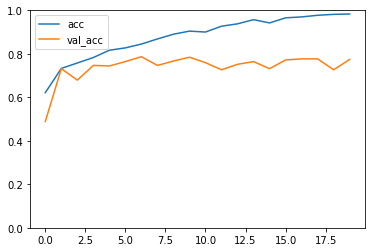
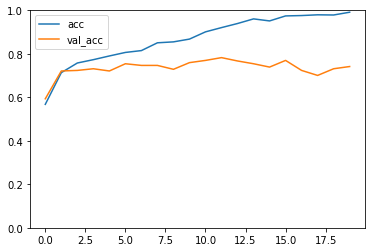
update

Changed region(s): [[0.1173, 0.1111, 0.9387, 0.5], [0.5867, 0.0278, 0.9387, 0.1111]]

diff --git a/doc2/032_da.md b/doc2/032_da.md
@@ -247,14 +247,14 @@ train_datagen = ImageDataGenerator(rescale=1.0/255,
                                    horizontal_flip=True,
                                    vertical_flip=True)
 
-train_generator = train_datagen.flow_from_directory('data/train',
+train_generator = train_datagen.flow_from_directory('data60x90/train',
                                                     target_size=(60, 90),
                                                     batch_size=32,
                                                     class_mode='binary')
 
 test_datagen = ImageDataGenerator(rescale=1.0/255)
 
-test_generator = test_datagen.flow_from_directory('data/test',
+test_generator = test_datagen.flow_from_directory('data60x90/test',
                                                         target_size=(60, 90),
                                                         batch_size=32,
                                                         class_mode='binary')
@@ -271,7 +271,7 @@ history = model.fit_generator(train_generator,
 flow_from_directoryメソッドの使い方を確認しておきましょう。
 
 ```python
-train_generator = train_datagen.flow_from_directory('/input/data/train',
+train_generator = train_datagen.flow_from_directory('data60x90/train',
                                                     target_size=(60, 90),
                                                     batch_size=32,
                                                     class_mode='binary')
@@ -279,7 +279,7 @@ train_generator = train_datagen.flow_from_directory('/input/data/train',
 
 flow_from_directoryメソッドの第1引数には訓練データのパスを指定します。このときファイルシステム上において、次のような構成で訓練データが準備されている必要があります。
 
-+ data/train
++ data60x90/train
     + CLASS_A
       + 001.jpg
       + 002.jpg
@@ -312,7 +312,7 @@ flow_from_directoryメソッドの第1引数には訓練データのパスを指
 ```python
 test_datagen = ImageDataGenerator(rescale=1.0/255)
 
-test_generator = test_datagen.flow_from_directory('/input/data/test',
+test_generator = test_datagen.flow_from_directory('data60x90/test',
                                                         target_size=(60, 90),
                                                         batch_size=32,
                                                         class_mode='binary')

diff --git a/doc2/043_models.md b/doc2/043_models.md
@@ -70,8 +70,8 @@ VGG16を特徴抽出器として利用すると、入力データは(224, 224, 3
 
 + 対象画像はA or Bの2種類（2値分類）とする
 + 画像サイズは縦：240px 横：360pxとする
-+ data240x360/data/trainフォルダには864件の訓練データ
-+ data240x360/data/testフォルダには700件のテストデータ
++ data240x360/trainフォルダには864件の訓練データ
++ data240x360/testフォルダには700件のテストデータ
 
 まずはVGG16を使って入力データの特徴を抽出します。
 
@@ -83,7 +83,7 @@ from keras.applications.vgg16 import VGG16
 model = VGG16(include_top=False, weights='imagenet')
 
 train_datagen = ImageDataGenerator(rescale=1.0 / 255)
-train_generator = train_datagen.flow_from_directory('data240x360/data/train',
+train_generator = train_datagen.flow_from_directory('data240x360/train',
                                                       target_size=(240, 360),
                                                       batch_size=32,
                                                       class_mode=None,
@@ -94,7 +94,7 @@ print(bottleneck_features_train.shape)
 np.save(open('bottleneck_features_train.npy', 'wb'), bottleneck_features_train)
 
 test_datagen = ImageDataGenerator(rescale=1. / 255)
-test_generator = test_datagen.flow_from_directory('data240x360/data/test',
+test_generator = test_datagen.flow_from_directory('data240x360/test',
                                                     target_size=(240, 360),
                                                     batch_size=32,
                                                     class_mode=None,
@@ -145,7 +145,7 @@ model = VGG16(include_top=False, weights='imagenet')
 
 ```python
 train_datagen = ImageDataGenerator(rescale=1. / 255)
-train_generator = train_datagen.flow_from_directory('data240x360/data/train',
+train_generator = train_datagen.flow_from_directory('data240x360/train',
                                                       target_size=(240, 360),
                                                       batch_size=32,
                                                       class_mode=None,

diff --git a/doc2/022_cnn.md b/doc2/022_cnn.md
@@ -13,6 +13,8 @@
 
 ここではインターネット上の共有画像データセットを活用して、機械学習に取り組む方法を取り上げます。次のプログラムは大規模画像データベースImage Netから画像をダウンロードするサンプルプログラムです。
 
+<div style="page-break-before:always"></div>
+
 ```python
 import sys
 import os
@@ -40,7 +42,7 @@ classes = {"apple":"n07739125", "banana":"n07753592"}
 # classes = {"cherry":"n07757132"}
 
 offset = 0
-max = 1 # 2000
+max = 10 # 2000
 for dir, id in classes.items():
     print(id)
     os.makedirs(dir, exist_ok=True)
@@ -213,12 +215,14 @@ plt.show()
 
 ```
 ...省略
+Epoch 17/20
+1173/1173 3s - loss: 0.0572 - acc: 0.9804 - val_loss: 0.8526 - val_acc: 0.7570
 Epoch 18/20
-1194/1194 3s - loss: 0.0774 - acc: 0.9774 - val_loss: 0.8825 - val_acc: 0.7769
+1173/1173 3s - loss: 0.0524 - acc: 0.9804 - val_loss: 1.0598 - val_acc: 0.7724
 Epoch 19/20
-1194/1194 3s - loss: 0.0657 - acc: 0.9816 - val_loss: 0.8557 - val_acc: 0.7268
+1173/1173 3s - loss: 0.0674 - acc: 0.9795 - val_loss: 0.8944 - val_acc: 0.7570
 Epoch 20/20
-1194/1194 3s - loss: 0.0573 - acc: 0.9832 - val_loss: 0.9858 - val_acc: 0.7744
+1173/1173 3s - loss: 0.0420 - acc: 0.9864 - val_loss: 0.8620 - val_acc: 0.7545
 ```
 
 訓練データの正答率（acc）は高いですが、テストデータの正答率（val_acc）は80%を下回ります。結果から過学習の傾向が見られます。
@@ -236,6 +240,6 @@ plt.legend()
 plt.show()
 ```
 
-<img src="img/03_glaph.png" width="300px">
+<img src="img/03_glaph.png?a" width="300px">
 
 原因についてはいくつか考えられますが、訓練データが不足している可能性があります。

diff --git a/doc2/044_models.md b/doc2/044_models.md
@@ -53,14 +53,14 @@ train_datagen = ImageDataGenerator(rescale=1.0/255,
                                    horizontal_flip=True,
                                    vertical_flip=True)
 
-train_generator = train_datagen.flow_from_directory('data240x360/data/train',
+train_generator = train_datagen.flow_from_directory('data240x360/train',
                                                     target_size=(240, 360),
                                                     batch_size=32,
                                                     class_mode='binary')
 
 test_datagen = ImageDataGenerator(rescale=1.0/255)
 
-test_generator = test_datagen.flow_from_directory('data240x360/data/test',
+test_generator = test_datagen.flow_from_directory('data240x360/test',
                                                         target_size=(240, 360),
                                                         batch_size=32,
                                                         class_mode='binary')

diff --git a/doc2/041_models.md b/doc2/041_models.md
@@ -24,8 +24,6 @@ CNNが注目されるきっかけになったのが2012年に登場したAlexNet
 
 AlexNetでは畳み込みレイヤー、プーリングレイヤー、全結合レイヤーで構成されています。LeNetと比較すると活性化関数にReLU関数に使用したり、Dropoutレイヤーを導入したりといった改善が提案されています。
 
-<div style="page-break-before:always"></div>
-
 AlexNet以降も様々な画像認識モデルが提案されています。
 
 + VGG16

diff --git a/doc2/021_cnn.md b/doc2/021_cnn.md
@@ -264,8 +264,6 @@ for i in range(0, img_width, pool_width):
 3 3
 ```
 
-<div style="page-break-before:always"></div>
-
 
 ### プーリング層（MaxPooling2D）
 
